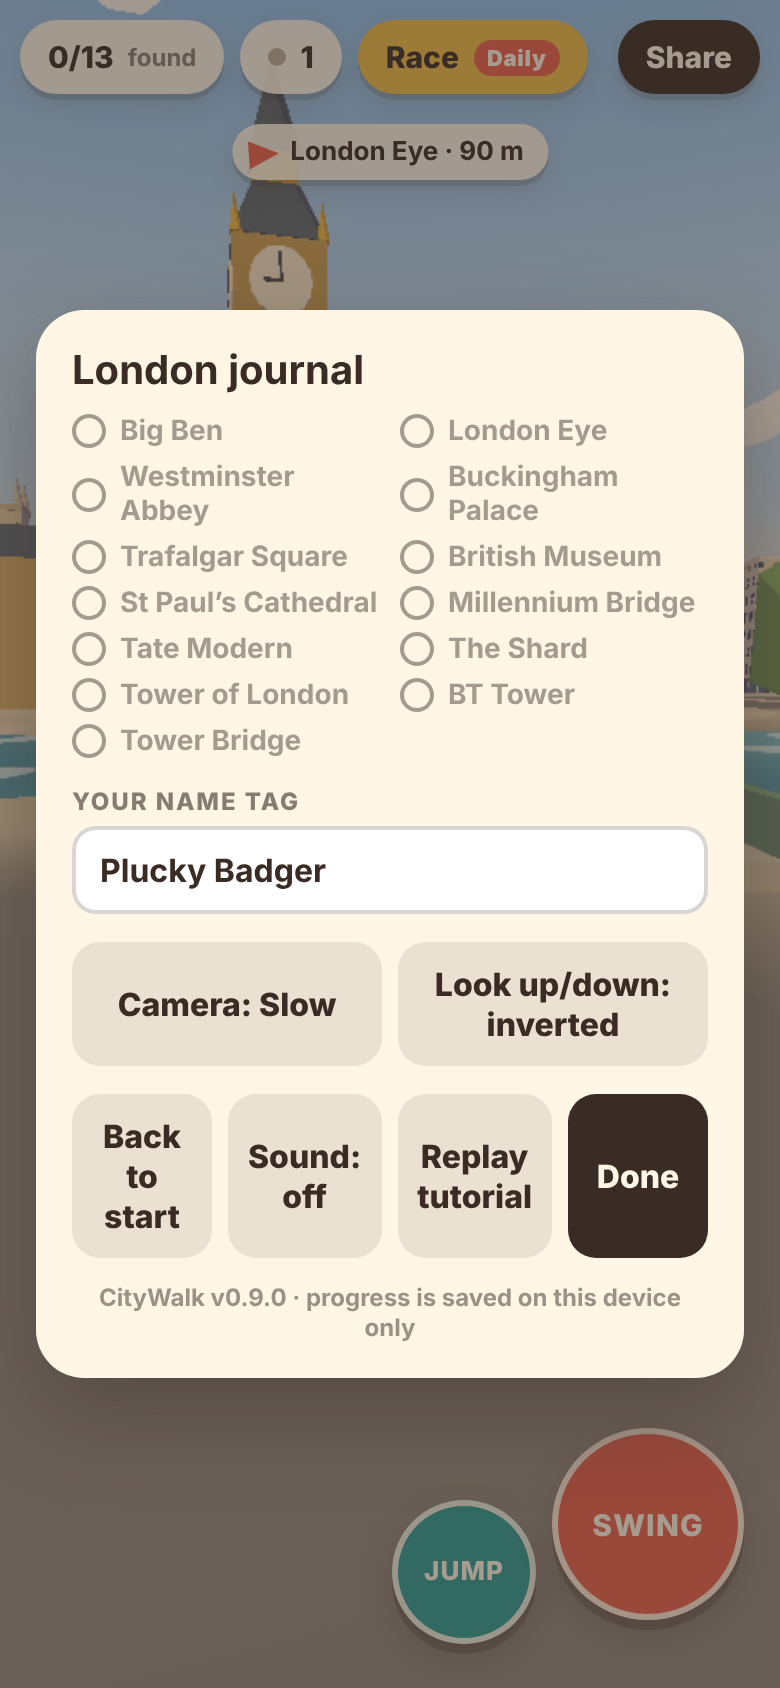
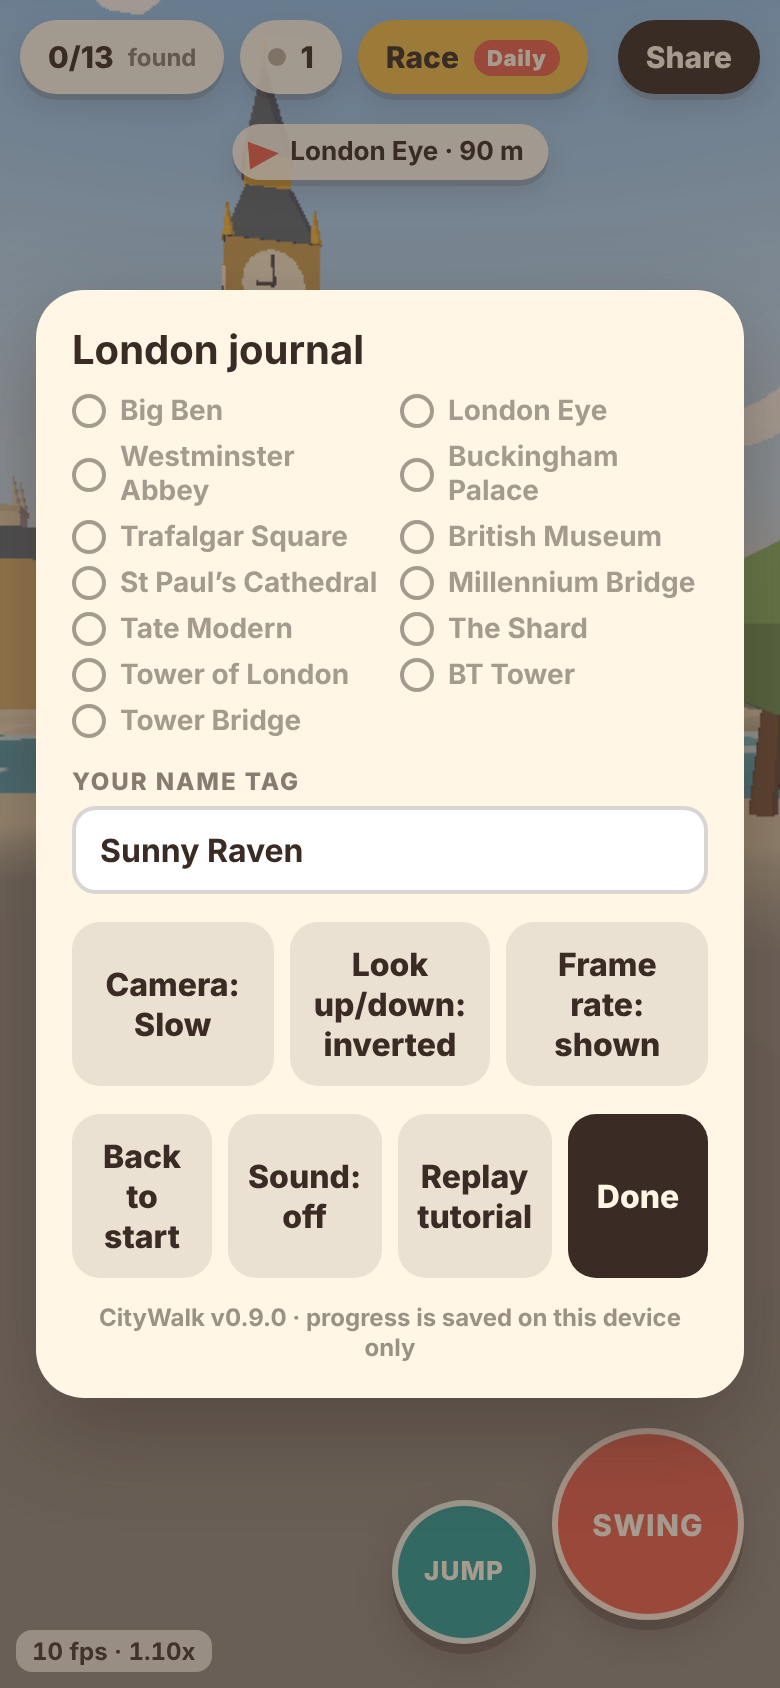
Options: optional frame-rate readout for real-phone testing
Journal panel gains "Frame rate: hidden/shown" (saved on the device, off by
default). When shown, a small bottom-left readout gives fps and render scale
from the existing dynamic-resolution measurement. Nothing is sent anywhere.

Claude-Session: https://claude.ai/code/session_01Fz3Rh1V4A283Vinm9FWQVG

diff --git a/tests/settings.test.ts b/tests/settings.test.ts
@@ -1,6 +1,6 @@
 import { describe, expect, it } from 'vitest';
 import { CONFIG } from '../src/config';
-import { DEFAULT_SETTINGS, camSpeedLabel, lookScale, nextCamSpeed, parseSettings } from '../src/settings';
+import { DEFAULT_SETTINGS, camSpeedLabel, fpsLabel, lookScale, nextCamSpeed, parseSettings } from '../src/settings';
 
 describe('player settings', () => {
   it('defaults to normal camera, normal look, sound on', () => {
@@ -8,17 +8,18 @@ describe('player settings', () => {
     expect(camSpeedLabel(DEFAULT_SETTINGS.camSpeed)).toBe('Normal');
     expect(lookScale(DEFAULT_SETTINGS)).toEqual({ x: 1, y: 1 });
     expect(DEFAULT_SETTINGS.muted).toBe(false);
+    expect(DEFAULT_SETTINGS.showFps).toBe(false);
   });
 
   it('round-trips through JSON', () => {
-    const s = { camSpeed: 2, invertY: true, muted: true };
+    const s = { camSpeed: 2, invertY: true, muted: true, showFps: true };
     expect(parseSettings(JSON.stringify(s))).toEqual(s);
   });
 
   it('ignores malformed or out-of-range values', () => {
     expect(parseSettings('not json')).toEqual(DEFAULT_SETTINGS);
     expect(parseSettings('null')).toEqual(DEFAULT_SETTINGS);
-    expect(parseSettings('{"camSpeed":99,"invertY":"yes","muted":1}')).toEqual(DEFAULT_SETTINGS);
+    expect(parseSettings('{"camSpeed":99,"invertY":"yes","muted":1,"showFps":"on"}')).toEqual(DEFAULT_SETTINGS);
     expect(parseSettings('{"camSpeed":0.5}').camSpeed).toBe(DEFAULT_SETTINGS.camSpeed);
     expect(parseSettings('{"camSpeed":0}')).toEqual({ ...DEFAULT_SETTINGS, camSpeed: 0 });
   });
@@ -42,5 +43,17 @@ describe('player settings', () => {
     expect(fast.x).toBeGreaterThan(1);
     const inv = lookScale({ ...DEFAULT_SETTINGS, invertY: true });
     expect(inv).toEqual({ x: 1, y: -1 });
+  });
+
+  it('keeps settings saved before the frame-rate option existed', () => {
+    expect(parseSettings('{"camSpeed":2,"invertY":true,"muted":true}')).toEqual({ camSpeed: 2, invertY: true, muted: true, showFps: false });
+  });
+
+  it('labels the frame-rate readout with whole fps and render scale', () => {
+    expect(fpsLabel(59.6, 1.5)).toBe('60 fps · 1.50x');
+    expect(fpsLabel(31.2, 0.65)).toBe('31 fps · 0.65x');
+    expect(fpsLabel(Number.NaN, 1)).toBe('-- fps');
+    expect(fpsLabel(-1, 1)).toBe('-- fps');
+    expect(fpsLabel(40, Number.NaN)).toBe('40 fps');
   });
 });

diff --git a/e2e/game.spec.ts b/e2e/game.spec.ts
@@ -698,7 +698,7 @@ test('desktop: no touch buttons, key hints shown, WASD and Space work', async ({
   await ctx.close();
 });
 
-test('settings: camera speed, inverted look and sound are kept after a reload and change the camera', async ({ page }) => {
+test('settings: camera speed, inverted look, sound and frame rate are kept after a reload and change the camera', async ({ page }) => {
   const errors = trackErrors(page);
   await page.goto(url('settingstest'));
   await ready(page);
@@ -725,7 +725,15 @@ test('settings: camera speed, inverted look and sound are kept after a reload an
   await expect(page.locator('#invert-y')).toHaveText('Look up/down: inverted');
   await page.locator('#mute').tap();
   await expect(page.locator('#mute')).toHaveText('Sound: off');
+  await expect(page.locator('#fps-meter')).toBeHidden();
+  await expect(page.locator('#show-fps')).toHaveText('Frame rate: hidden');
+  await page.locator('#show-fps').tap();
+  await expect(page.locator('#show-fps')).toHaveText('Frame rate: shown');
   await page.locator('#close').tap();
+  // the readout fills in with a real measurement within a few seconds
+  await expect(page.locator('#fps-meter')).toBeVisible();
+  await expect(page.locator('#fps-meter')).toHaveText(/^\d+ fps · \d\.\d\dx$/, { timeout: 8000 });
+  await page.screenshot({ path: 'screenshots/fps-meter-390x844.png' });
 
   // same drag now moves the other way, and further
   const inverted = await dragPitch();
@@ -739,6 +747,7 @@ test('settings: camera speed, inverted look and sound are kept after a reload an
   await expect(page.locator('#cam-speed')).toHaveText('Camera: Fast');
   await expect(page.locator('#invert-y')).toHaveText('Look up/down: inverted');
   await expect(page.locator('#mute')).toHaveText('Sound: off');
+  await expect(page.locator('#show-fps')).toHaveText('Frame rate: shown');
   await page.locator('#cam-speed').tap();
   await expect(page.locator('#cam-speed')).toHaveText('Camera: Slow');
   await page.screenshot({ path: 'screenshots/settings-390x844.png' });

diff --git a/src/settings.ts b/src/settings.ts
@@ -6,9 +6,11 @@ export interface Settings {
   camSpeed: number;
   invertY: boolean;
   muted: boolean;
+  /** small frame-rate readout in the corner, for testers checking real phones */
+  showFps: boolean;
 }
 
-export const DEFAULT_SETTINGS: Settings = { camSpeed: CONFIG.settings.defaultCameraSpeed, invertY: false, muted: false };
+export const DEFAULT_SETTINGS: Settings = { camSpeed: CONFIG.settings.defaultCameraSpeed, invertY: false, muted: false, showFps: false };
 
 /** Reads saved settings, falling back to defaults for anything missing or malformed. */
 export function parseSettings(raw: string | null): Settings {
@@ -26,6 +28,7 @@ export function parseSettings(raw: string | null): Settings {
   if (typeof r.camSpeed === 'number' && Number.isInteger(r.camSpeed) && r.camSpeed >= 0 && r.camSpeed < n) s.camSpeed = r.camSpeed;
   if (typeof r.invertY === 'boolean') s.invertY = r.invertY;
   if (typeof r.muted === 'boolean') s.muted = r.muted;
+  if (typeof r.showFps === 'boolean') s.showFps = r.showFps;
   return s;
 }
 
@@ -41,4 +44,11 @@ export function camSpeedLabel(i: number): string {
 export function lookScale(s: Settings): { x: number; y: number } {
   const k = CONFIG.settings.cameraSpeeds[s.camSpeed]?.scale ?? 1;
   return { x: k, y: s.invertY ? -k : k };
+}
+
+/** Text for the frame-rate readout: whole frames per second and the current render scale. */
+export function fpsLabel(fps: number, pixelRatio: number): string {
+  if (!Number.isFinite(fps) || fps < 0) return '-- fps';
+  const pr = Number.isFinite(pixelRatio) && pixelRatio > 0 ? ` · ${pixelRatio.toFixed(2)}x` : '';
+  return `${Math.round(fps)} fps${pr}`;
 }

diff --git a/src/ui.ts b/src/ui.ts
@@ -1,6 +1,6 @@
 import { CONFIG } from './config';
 import { LANDMARKS, type Landmark } from './world/data';
-import { camSpeedLabel, nextCamSpeed, parseSettings, type Settings } from './settings';
+import { camSpeedLabel, fpsLabel, nextCamSpeed, parseSettings, type Settings } from './settings';
 
 const $ = <T extends HTMLElement = HTMLElement>(id: string): T => document.getElementById(id) as T;
 
@@ -127,6 +127,10 @@ export class UI {
       this.settings.invertY = !this.settings.invertY;
       this.saveSettings();
     });
+    $('show-fps').addEventListener('click', () => {
+      this.settings.showFps = !this.settings.showFps;
+      this.saveSettings();
+    });
     this.renderSettings();
     $('version').textContent = `CityWalk v${__APP_VERSION__} · progress is saved on this device only`;
     const dots = $('tut-dots');
@@ -142,6 +146,13 @@ export class UI {
     $('mute').textContent = `Sound: ${this.settings.muted ? 'off' : 'on'}`;
     $('cam-speed').textContent = `Camera: ${camSpeedLabel(this.settings.camSpeed)}`;
     $('invert-y').textContent = `Look up/down: ${this.settings.invertY ? 'inverted' : 'normal'}`;
+    $('show-fps').textContent = `Frame rate: ${this.settings.showFps ? 'shown' : 'hidden'}`;
+    $('fps-meter').hidden = !this.settings.showFps;
+  }
+
+  /** Updates the frame-rate readout (only visible when the player turned it on). */
+  showFrameRate(fps: number, pixelRatio: number): void {
+    if (this.settings.showFps) $('fps-meter').textContent = fpsLabel(fps, pixelRatio);
   }
 
   private renderProgress(): void {

diff --git a/index.html b/index.html
@@ -243,6 +243,12 @@
         font-weight: 700; font-size: 13px; pointer-events: none; opacity: 0.9;
       }
       #keys[hidden] { display: none; }
+      #fps-meter {
+        position: fixed; left: calc(8px + var(--sal)); bottom: calc(8px + var(--sab)); background: var(--paper); border-radius: 8px;
+        padding: 3px 8px; font-weight: 700; font-size: 12px; font-variant-numeric: tabular-nums; pointer-events: none; opacity: 0.85;
+      }
+      #fps-meter[hidden] { display: none; }
+      body:has(#keys:not([hidden])) #fps-meter { bottom: calc(60px + var(--sab)); }
       body.desktop .act, body.desktop #joy-base { display: none; }
       body.racing #compass { display: none; }
 
@@ -275,6 +281,7 @@
     </div>
     <div id="countdown" hidden></div>
     <div id="race-hint" hidden>Reach the golden beacon at each stop, in order. The clock stops at the last one.</div>
+    <div id="fps-meter" hidden aria-live="off">-- fps</div>
     <div id="keys" hidden>WASD move · Space jump (again in mid-air) · hold click or E to swing</div>
     <div class="chip" id="compass" hidden><i id="needle"></i><span id="compass-text"></span></div>
 
@@ -309,6 +316,7 @@
         <div class="row">
           <button id="cam-speed">Camera: Normal</button>
           <button id="invert-y">Look up/down: normal</button>
+          <button id="show-fps">Frame rate: hidden</button>
         </div>
         <div class="row">
           <button id="respawn">Back to start</button>

diff --git a/src/main.ts b/src/main.ts
@@ -643,6 +643,7 @@ function tick(dt: number, now: number): void {
       renderer.setPixelRatio(pixelRatio);
       stableGood = 0;
     }
+    ui.showFrameRate(fps, pixelRatio);
   }
 }
 

diff --git a/DAILY_PROGRESS.md b/DAILY_PROGRESS.md
@@ -2,6 +2,31 @@
 
 Verified work only. Newest first.
 
+## 2026-11-20
+
+**Implemented**
+- **Frame rate: hidden / shown** option in the journal panel. When shown, a small readout in the
+  bottom-left corner gives frames per second and the current render scale (e.g. `58 fps · 1.50x`),
+  refreshed every 1.5 s from the game's existing dynamic-resolution measurement. Saved on the
+  device with the other options; off by default. Purpose: lets the owner or a tester read the real
+  frame rate on their own phone (Roadmap "Measure real-phone frame rate"), with no tracking and
+  nothing sent anywhere. Settings saved before today load unchanged.
+
+**Verified**
+- Build: 0 TS errors. Unit: 108 passed (2 new in `tests/settings.test.ts`: old saved settings
+  still load; readout text, including bad numbers). Browser: 11 of 11 passed (re-join 4.8 s); the
+  settings test now turns the readout on, waits for a real measurement in the `N fps · N.NNx`
+  form, and checks it survives a reload. New screenshot `screenshots/fps-meter-390x844.png`.
+- First placement (top-left under the bar) overlapped the next-up card and could meet the
+  compass on narrow phones; moved to the bottom-left corner after checking the screenshot.
+- Not verified: any real-phone frame rate (the test browser uses software rendering, ~10–12 fps).
+  That number needs a human with the option turned on.
+
+**Money earned:** £0 (not yet published on a paying channel).
+
+**Next task:** owner playtest (with the frame-rate readout on) and fixes; keep watching the
+multiplayer test in CI.
+
 ## 2026-11-19
 
 **Implemented**

diff --git a/ROADMAP.md b/ROADMAP.md
@@ -19,7 +19,9 @@ Ordered by impact on getting real players and the first revenue.
    2026-11-18: one CI failure (run 44027868413) was a test race, not the game: the tutorial
    timed out between the test's check and its tap. Test fixed. Keep watching.
    2026-11-19: CI green for that fix (run 44247361134). Keep watching.
-1. **Owner playtest on phone + desktop**, fix anything it surfaces.
+1. **Owner playtest on phone + desktop**, fix anything it surfaces. Turn on journal → "Frame rate:
+   shown" (added 2026-11-20) and note the fps number in busy spots (Westminster, the City) so the
+   quality presets can be tuned from real data.
 2. **itch.io launch** (awaiting approval — `DECISIONS.md`).
 3. **CrazyGames Basic Launch** (awaiting approval — `DECISIONS.md`). The no-external-links
    build is done (`npm run package:crazygames`).
@@ -40,7 +42,7 @@ Ordered by impact on getting real players and the first revenue.
   "Race it" card offers the same route in one tap (only when you are not racing). Third slice
   done 2026-11-14: that race shows the friend's time as a target and the finish says who won.
   Nothing more here until players use it.
-- Measure real-phone frame rate (ask testers), tune quality presets.
+- Measure real-phone frame rate (ask testers; in-game readout added 2026-11-20), tune quality presets.
 - Swing feel: "nothing to swing from" hint on a missed press (done 2026-11-17, needs a look);
   anchor preview line and on-target reticle (done 2026-11-08); rope tension hum
   (done 2026-11-09, needs a listen); landing crouch/roll (done 2026-11-10, needs a look).

diff --git a/RELEASE.md b/RELEASE.md
@@ -27,7 +27,8 @@ anywhere except the existing GitHub Pages site.
 
 ## Known issues (v0.9.0)
 
-- Frame rate on real phones is unmeasured (tests use software rendering).
+- Frame rate on real phones is unmeasured (tests use software rendering). Players can now see it
+  in-game: journal → "Frame rate: shown".
 - A friend who connects just as the game re-joins the room (it does so while you are alone) can
   wait up to about 27 s to appear (about 6 s less in theory since 2026-11-07, not yet measured).
   The permanent empty street this could cause was fixed on 2026-11-04. Under heavy CPU load in
